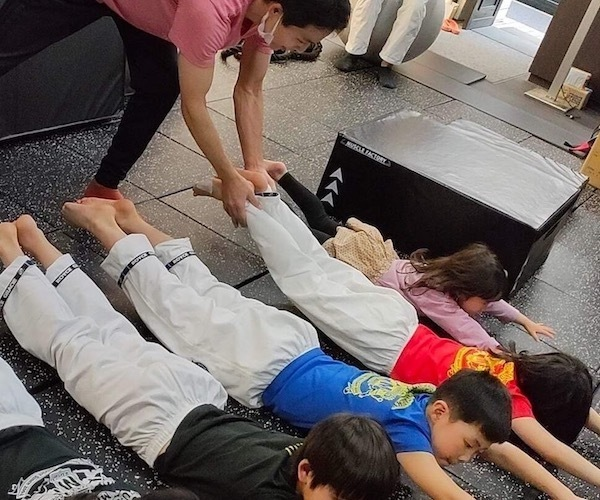
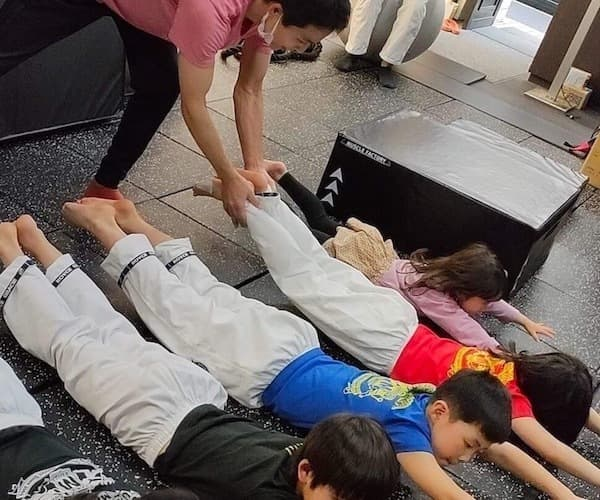
optimize image size

diff --git a/site/layouts/partials/top.html b/site/layouts/partials/top.html
@@ -87,7 +87,7 @@
                 </div>
                 <div class="col-md-4 col-12">
                     <div class="card">
-                        <img class="card-img-top" src="img/baku2.png" alt="自分に自信をつけよう">
+                        <img class="card-img-top" src="img/baku2.jpg" alt="自分に自信をつけよう">
                         <div class="card-body border-top-5 px-3 rounded-bottom border-success">
                             <h3 class="card-title text-success d-block">自分に自信をつけよう
                             </h3>
@@ -120,7 +120,7 @@
             <div class="row">
                 <div class="col-sm-x col-md-6 col-12">
                     <div class="card">
-                        <img class="card-img-top" src="img/way1.png" alt="運動能力を高めよう">
+                        <img class="card-img-top" src="img/way1.jpg" alt="運動能力を高めよう">
                         <div class="card-body border-top-5 px-3 rounded-bottom border-primary">
                             <h3 class="card-title text-primary d-block fs-5">
                                 1.後ろに倒れる
@@ -131,7 +131,7 @@
                 </div>
                 <div class="col-sm-x col-md-6 col-12">
                     <div class="card">
-                        <img class="card-img-top" src="img/way2.png" alt="自分に自信をつけよう">
+                        <img class="card-img-top" src="img/way2.jpg" alt="自分に自信をつけよう">
                         <div class="card-body border-top-5 px-3 rounded-bottom border-success">
                             <h3 class="card-title text-success d-block fs-5">2.体感してみる
                             </h3>
@@ -141,7 +141,7 @@
                 </div>
                 <div class="col-sm-x col-md-6 col-12">
                     <div class="card">
-                        <img class="card-img-top" src="img/way3.png" alt="ヒーローになろう">
+                        <img class="card-img-top" src="img/way3.jpg" alt="ヒーローになろう">
                         <div class="card-body border-top-5 px-3 rounded-bottom border-info">
                             <h3 class="card-title text-info d-block fs-5">3.後ろにジャンプする
                             </h3>
@@ -152,7 +152,7 @@
                 </div>
                 <div class="col-sm-x col-md-6 col-12">
                     <div class="card">
-                        <img class="card-img-top" src="img/way4.png" alt="ヒーローになろう">
+                        <img class="card-img-top" src="img/way4.jpg" alt="ヒーローになろう">
                         <div class="card-body border-top-5 px-3 rounded-bottom border-info">
                             <h3 class="card-title text-info d-block fs-5">4.補助付きで練習する
                             </h3>

diff --git a/site/content/post/r5summercamp.md b/site/content/post/r5summercamp.md
@@ -3,7 +3,7 @@ title: '夏休みスポーツブートキャンプを開催します。'
 date: 2023-07-01T15:04:10.000Z
 description: >-
   【満員御礼】令和5年ホイス・グレイシー柔術アカデミー東京初の夏休み子供イベントを開催します。
-image: /img/baku2.png
+image: /img/baku2.jpg
 ---
 
 令和5年ホイス・グレイシー柔術アカデミー東京初の夏休み子供イベントを開催します。

diff --git a/site/content/post/r5summercamp-finished.md b/site/content/post/r5summercamp-finished.md
@@ -3,7 +3,7 @@ title: "令和５年夏休み子供ブートキャンプありがとうござい
 date: 2023-08-10T15:04:10.000Z
 description: >-
   令和５年８月６日、夏休み子供ブートキャンプが朝から開催されました。
-image: /img/baku2.png
+image: /img/baku2.jpg
 ---
 
 令和５年８月６日、夏休み子供ブートキャンプが朝から開催されました。

diff --git a/site/content/post/bakuten-start.md b/site/content/post/bakuten-start.md
@@ -2,7 +2,7 @@
 title: "バク転教室が始まりました。"
 date: 2023-03-10T15:04:10.000Z
 description: 錦糸町駅から徒歩7分の場所に小学生向けのバク転教室ができました。
-image: /img/baku2.png
+image: /img/baku2.jpg
 ---
 
 令和5年3月に、バク転教室が始まりました。
